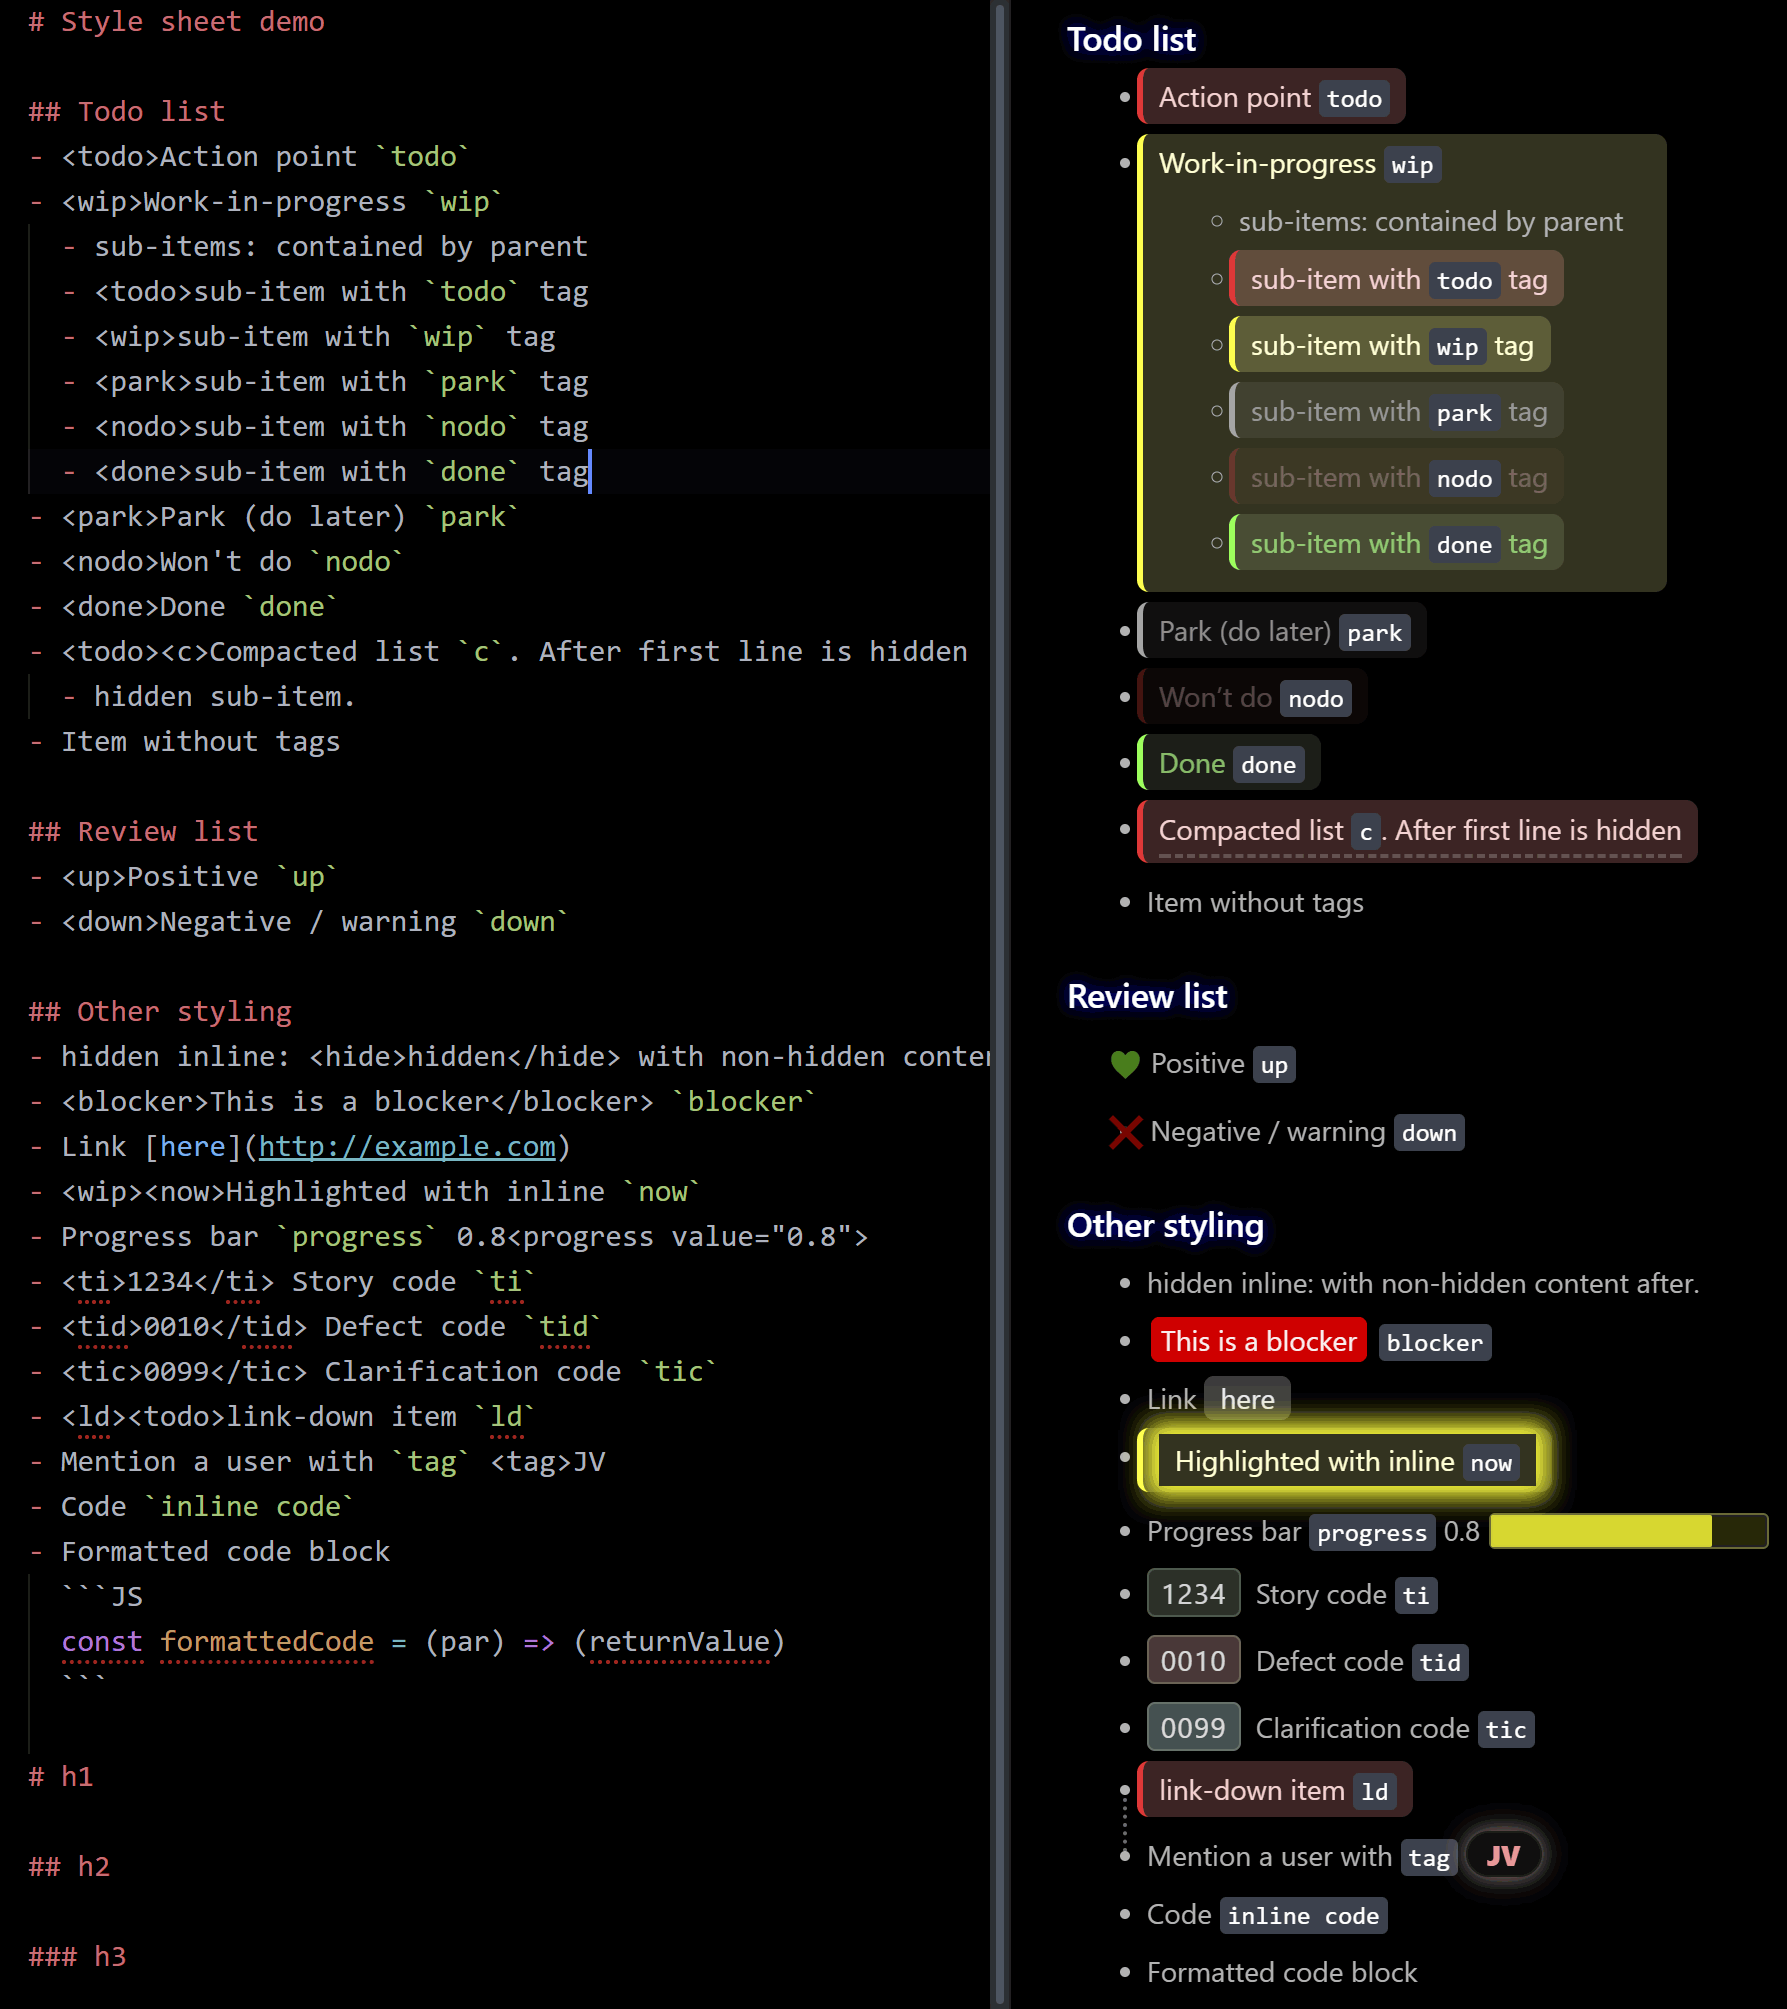
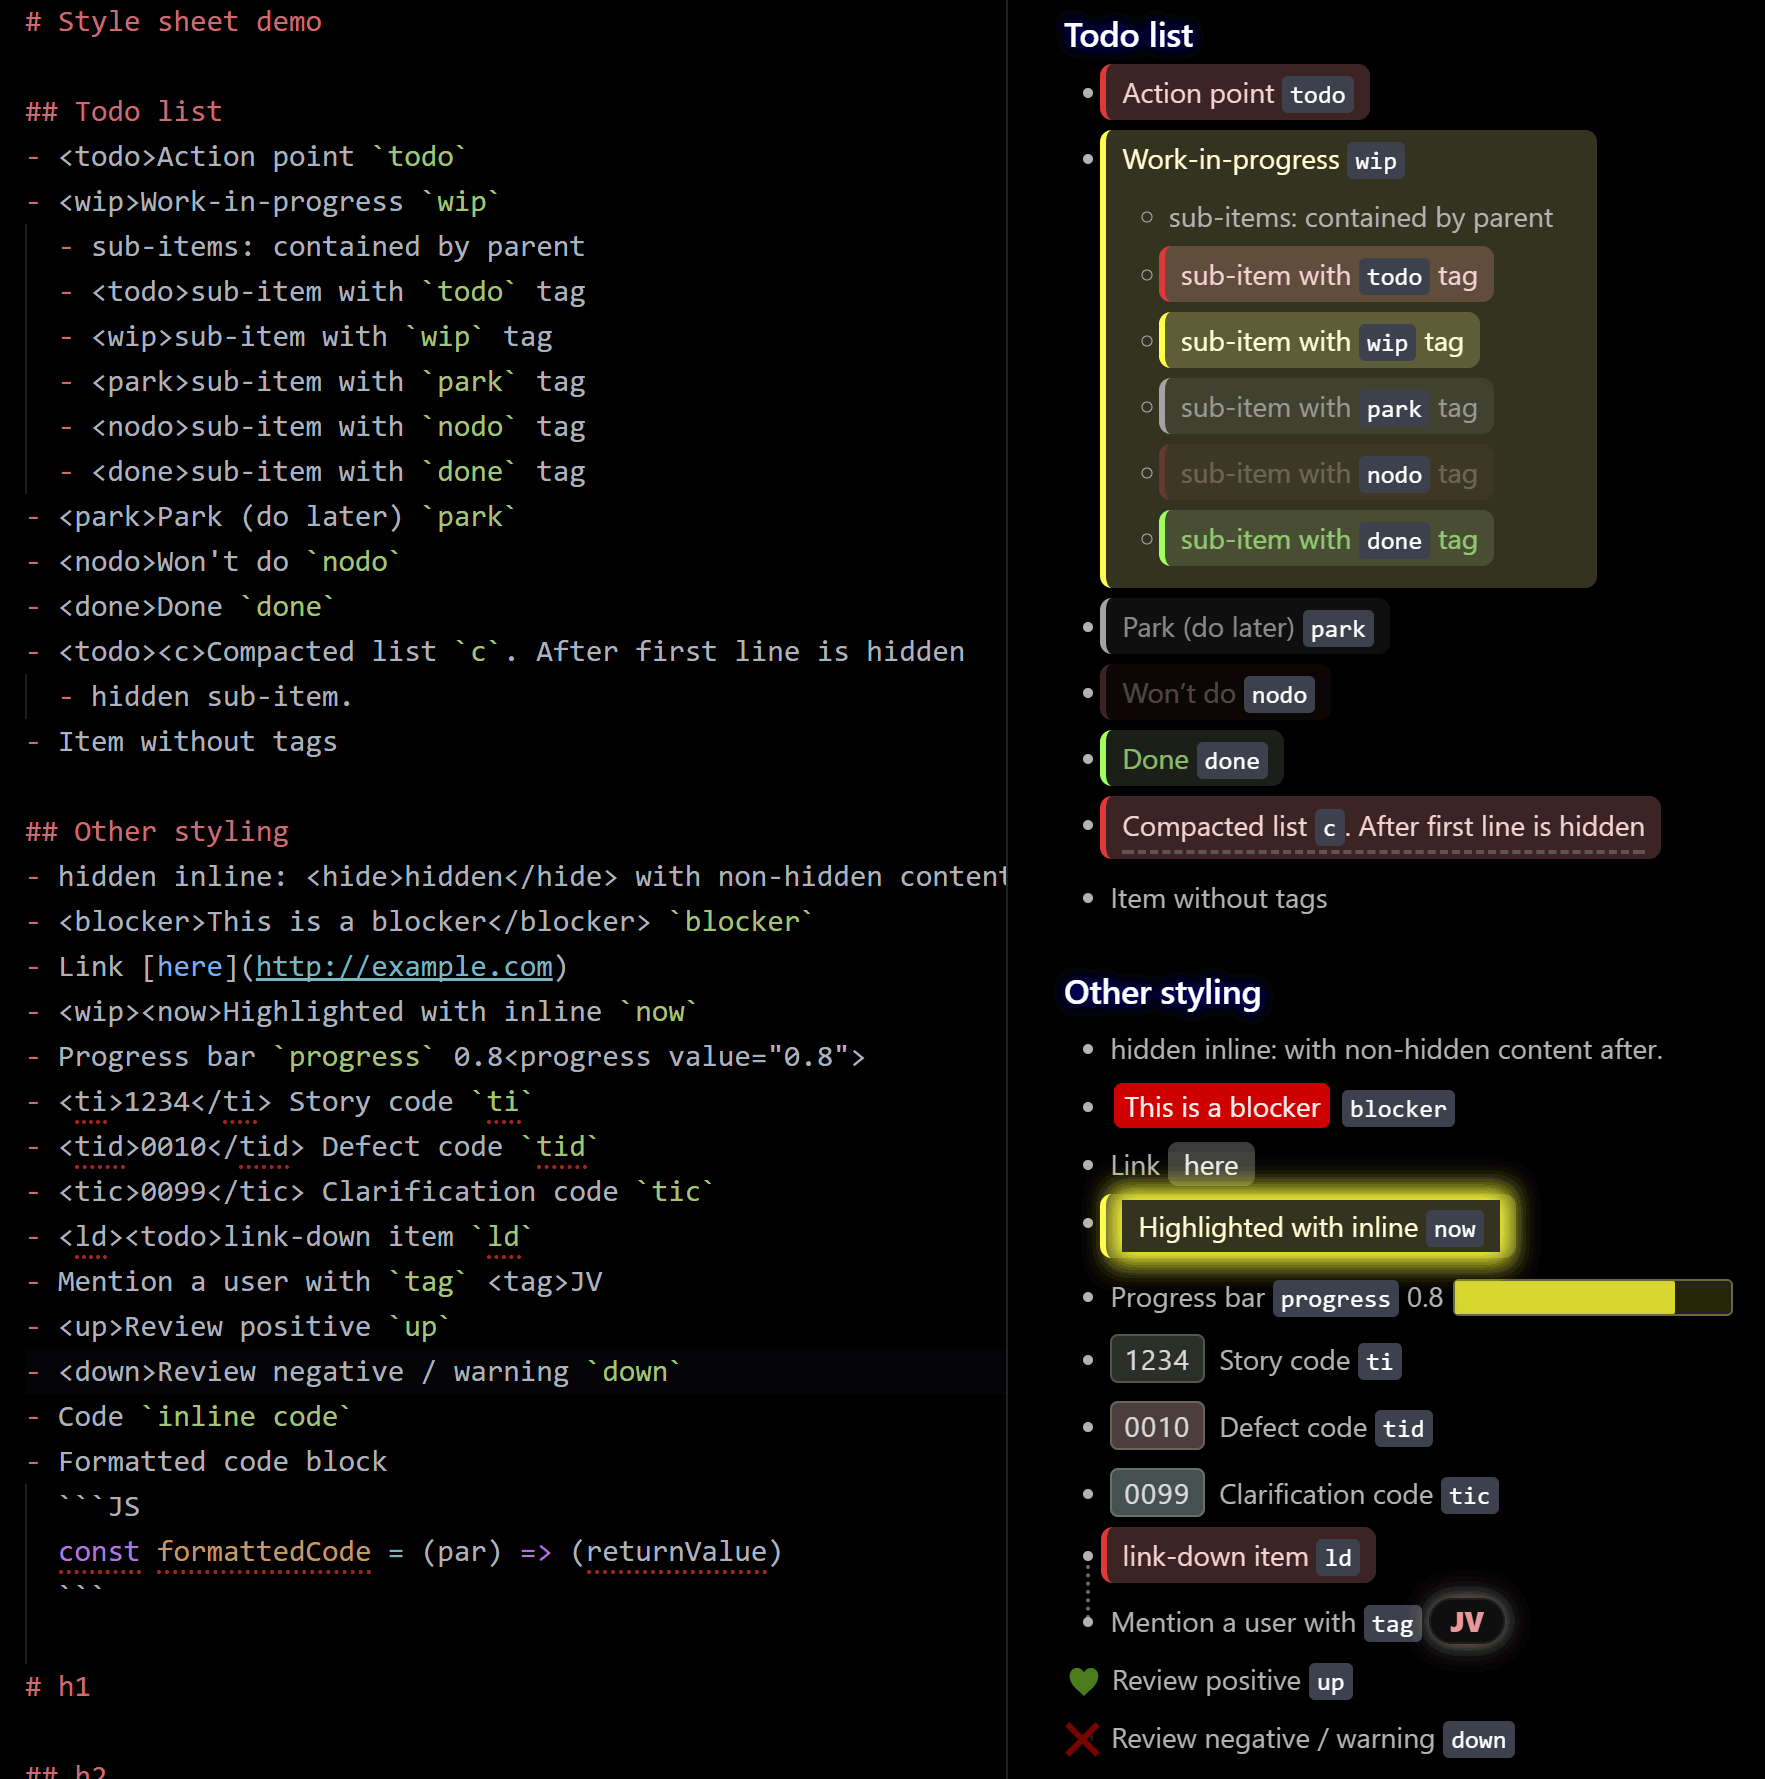
Add files via upload
- Fixed #3, spacing of `up` and `down` items.
- Moved `up` and `down` items in `example.md`.
- Reduced indentation for list items.

diff --git a/add to styles.less b/add to styles.less
@@ -47,6 +47,10 @@ markdown-preview-plus-view.native-key-bindings {
     color: hsl(0,0%,70%);
   }
 
+  & ul, & ol {
+    margin-left: -1.2em;
+  }
+
   & code, & pre {
     line-height: 1.35;
   }
@@ -108,9 +112,9 @@ markdown-preview-plus-view.native-key-bindings {
   & li down:before,
   & li up:before,
   & li now:before {
-    margin: -0em 0.2em 0 -0.8em;
+    margin: 0 0.25em 0 -0.9em;
     vertical-align: baseline;
-    line-height: 1em;
+    line-height: 0.6em;
     position: relative;
     top: 0.18em;
     font-size: 1.7em;
@@ -122,8 +126,8 @@ markdown-preview-plus-view.native-key-bindings {
   & li down:before {
     content: '✖';
     color: darkred;
-    margin-left: -0.85em;
-    margin-right: 0.1em;
+    margin-left: -1.0em;
+    margin-right: 0.2em;
     top: 0.16em;
     text-shadow: 3px 0px 4px black;
   }

diff --git a/example.md b/example.md
@@ -16,10 +16,6 @@
   - hidden sub-item.
 - Item without tags
 
-## Review list
-- <up>Positive `up`
-- <down>Negative / warning `down`
-
 ## Other styling
 - hidden inline: <hide>hidden</hide> with non-hidden content after.
 - <blocker>This is a blocker</blocker> `blocker`
@@ -31,6 +27,8 @@
 - <tic>0099</tic> Clarification code `tic`
 - <ld><todo>link-down item `ld`
 - Mention a user with `tag` <tag>JV
+- <up>Review positive `up`
+- <down>Review negative / warning `down`
 - Code `inline code`
 - Formatted code block
   ```JS
